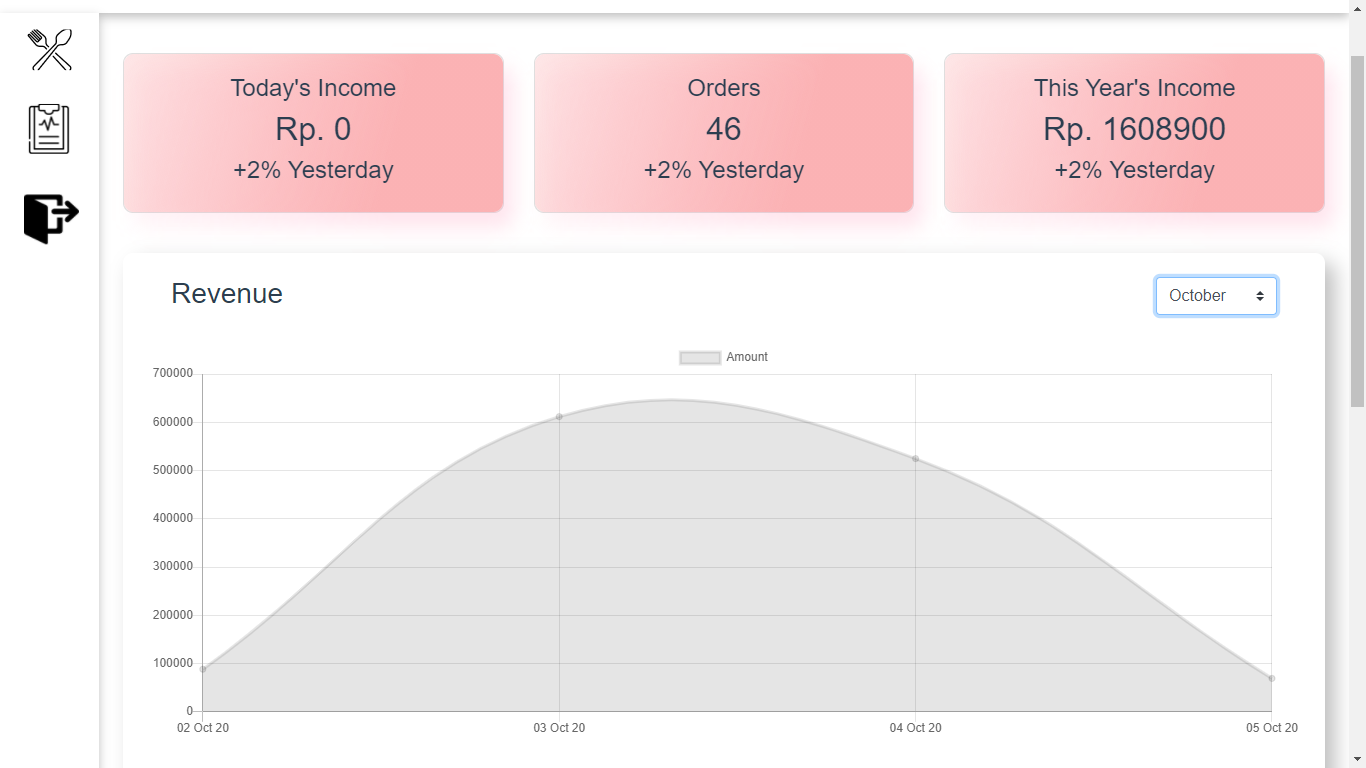
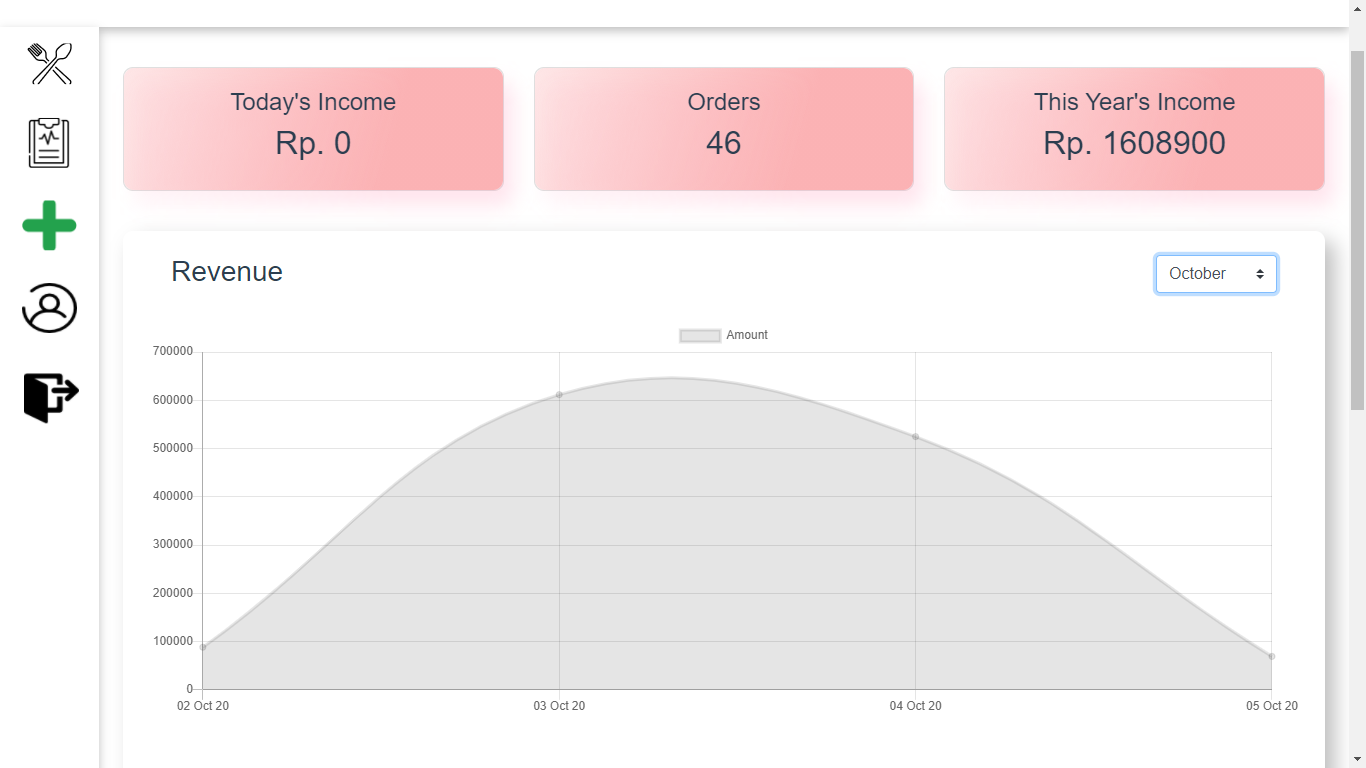
update readme

diff --git a/src/components/history/income-card.vue b/src/components/history/income-card.vue
@@ -6,7 +6,7 @@
                     <div class="card-body">
                         <h4>Today's Income</h4>
                         <h2>Rp. {{setDay}}</h2>
-                        <h4>+2% Yesterday</h4>
+                        <!-- <h4>+2% Yesterday</h4> -->
                     </div>
                 </div>
             </div>
@@ -15,7 +15,7 @@
                     <div class="card-body">
                         <h4>Orders</h4>
                         <h2>{{setOrders}}</h2>
-                        <h4>+2% Yesterday</h4>
+                        <!-- <h4>+2% Yesterday</h4> -->
                     </div>
                 </div>
             </div>
@@ -24,7 +24,7 @@
                     <div class="card-body">
                         <h4>This Year's Income</h4>
                         <h2>Rp. {{setYear}}</h2>
-                        <h4>+2% Yesterday</h4>
+                        <!-- <h4>+2% Yesterday</h4> -->
                     </div>
                 </div>
             </div>
